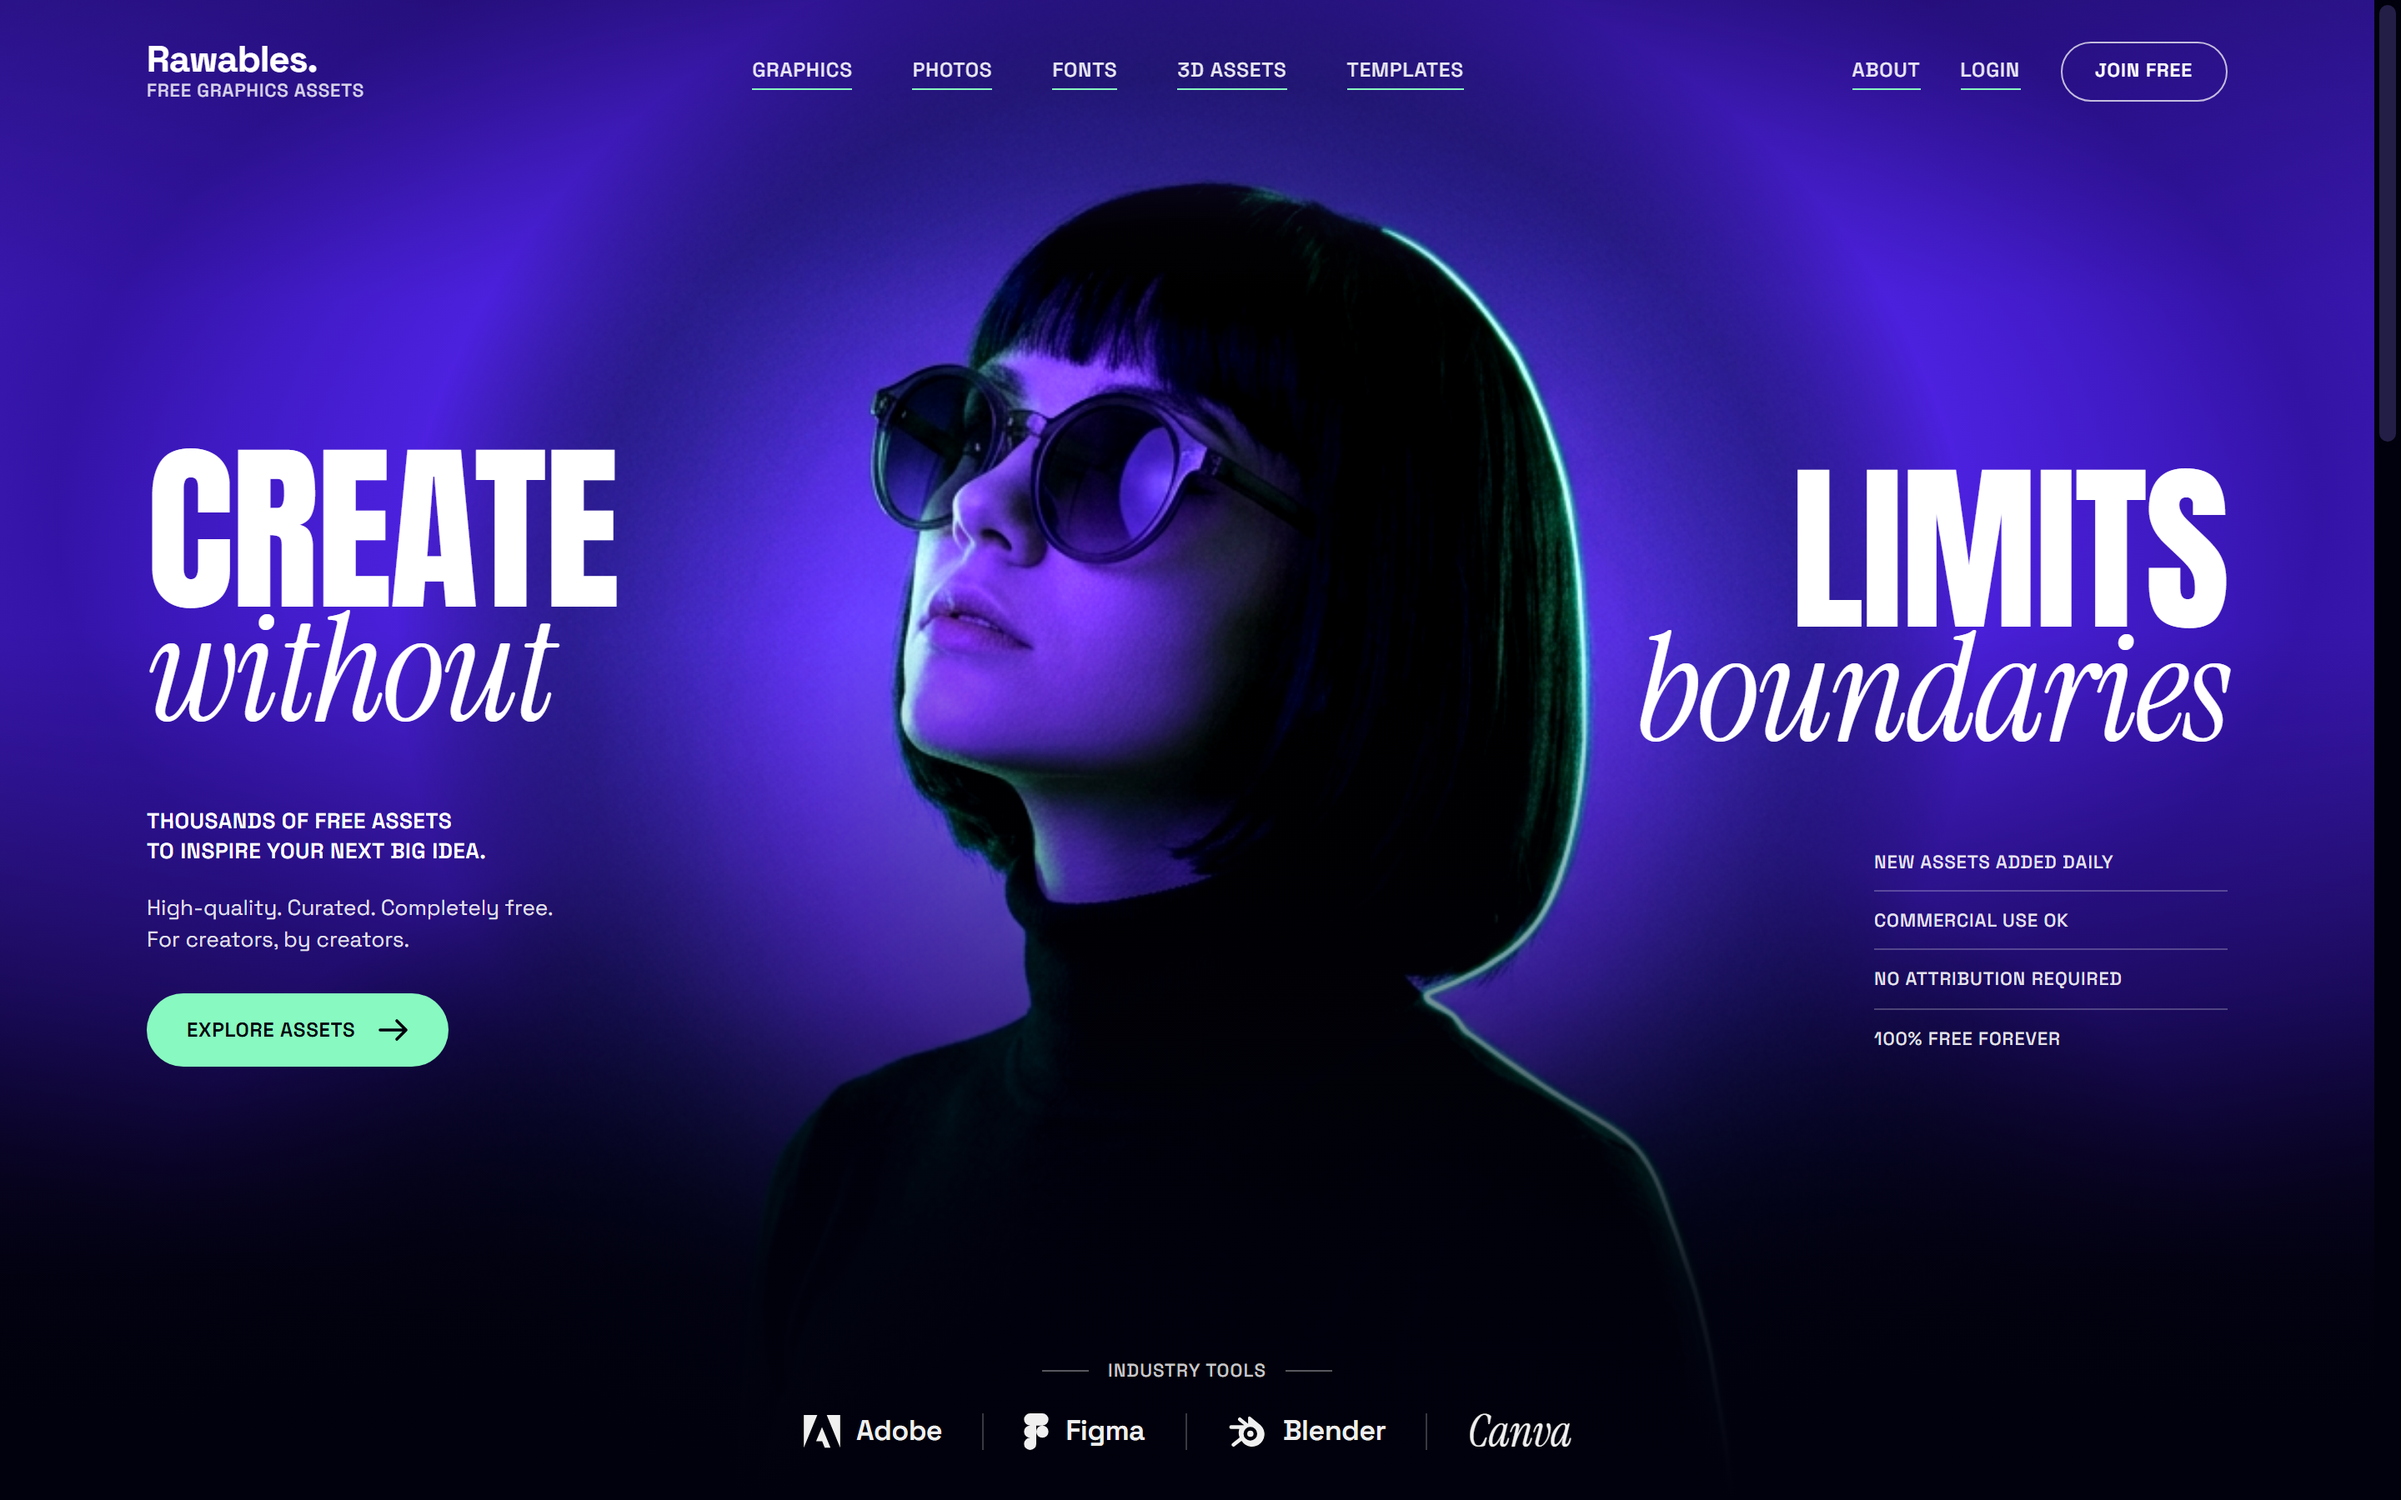
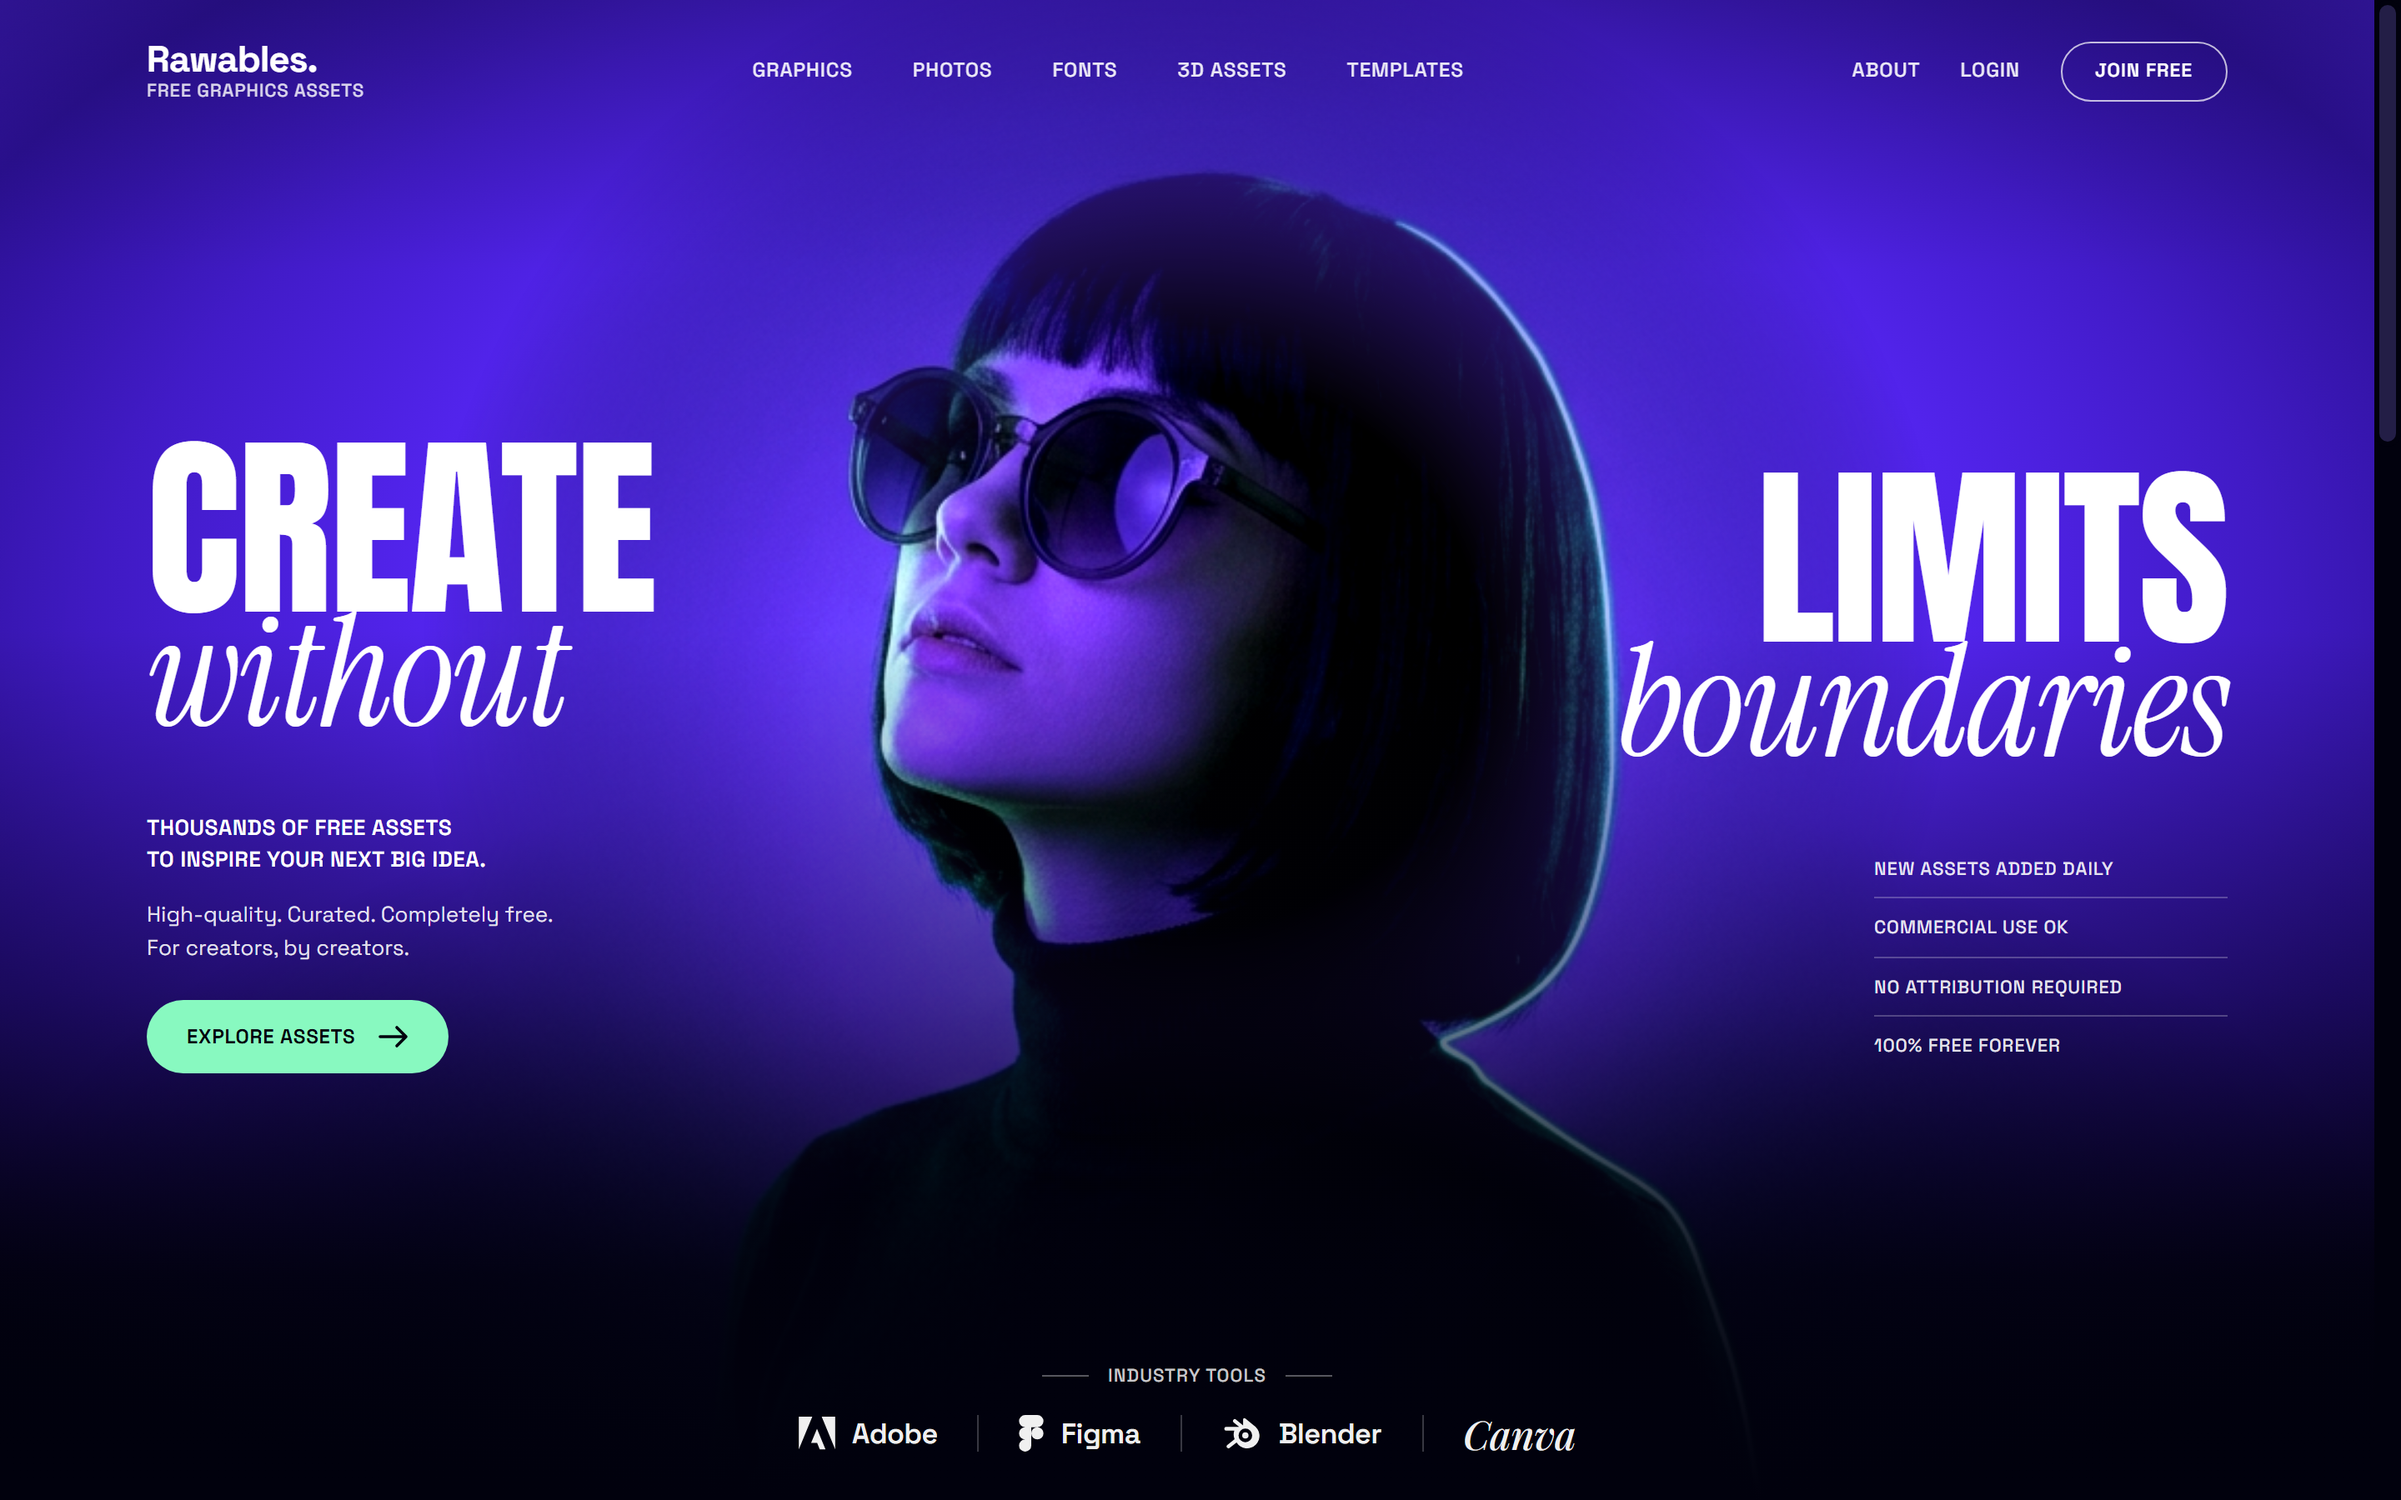
style(graphicassets_onyxblack+electricindigo+tropicalmint): refine portrait feather mask, mobile tool grid, and screenshots

diff --git a/graphicassets_onyxblack+electricindigo+tropicalmint/styles.css b/graphicassets_onyxblack+electricindigo+tropicalmint/styles.css
@@ -99,36 +99,38 @@ dd {
   outline-offset: 3px;
 }
 
-/* Custom Scrollbar */
-::-webkit-scrollbar {
-  width: 16px;
-}
+/* Custom Scrollbar (desktop viewports only) */
+@media (min-width: 901px) {
+  ::-webkit-scrollbar {
+    width: 16px;
+  }
 
-::-webkit-scrollbar-track {
-  background: var(--void);
-}
+  ::-webkit-scrollbar-track {
+    background: var(--void);
+  }
 
-::-webkit-scrollbar-thumb {
-  background: #231E46;
-  border: 3px solid var(--void);
-  border-radius: 999px;
-}
+  ::-webkit-scrollbar-thumb {
+    background: #231E46;
+    border: 3px solid var(--void);
+    border-radius: 999px;
+  }
 
-::-webkit-scrollbar-thumb:hover {
-  background: var(--indigo);
-}
+  ::-webkit-scrollbar-thumb:hover {
+    background: var(--indigo);
+  }
 
-::-webkit-scrollbar-thumb:active {
-  background: var(--mint);
-}
+  ::-webkit-scrollbar-thumb:active {
+    background: var(--mint);
+  }
 
-::-webkit-scrollbar-button {
-  display: none;
-}
+  ::-webkit-scrollbar-button {
+    display: none;
+  }
 
-@supports not selector(::-webkit-scrollbar) {
-  html {
-    scrollbar-color: #2A2454 var(--void);
+  @supports not selector(::-webkit-scrollbar) {
+    html {
+      scrollbar-color: #2A2454 var(--void);
+    }
   }
 }
 
@@ -242,9 +244,8 @@ dd {
   bottom: 2px;
   height: 1px;
   background: var(--mint);
-  transform: scaleX(0);
-  transform-origin: left center;
-  transition: transform 220ms var(--ease);
+  opacity: 0;
+  transition: opacity 200ms var(--ease);
 }
 
 .nav-link:hover {
@@ -252,7 +253,7 @@ dd {
 }
 
 .nav-link:hover::after {
-  transform: scaleX(1);
+  opacity: 1;
 }
 
 .header-actions {
@@ -369,9 +370,7 @@ dd {
    =========================== */
 .hero {
   position: relative;
-  min-height: 100dvh;
-  height: 100dvh;
-  max-height: 1080px;
+  height: clamp(720px, 100dvh, 960px);
   overflow: hidden;
   background-color: var(--void);
   display: flex;
@@ -389,8 +388,8 @@ dd {
   position: absolute;
   inset: 0;
   background:
-    radial-gradient(ellipse 68% 64% at 50% 34%, #6D3EFF 0%, #5727F5 38%, #3514AD 70%, rgba(1, 1, 13, 0) 100%),
-    linear-gradient(180deg, #4B20E8 0%, #6331FB 32%, #2B108E 68%, #01010D 95%);
+    radial-gradient(ellipse 74% 68% at 50% 38%, #6331FB 0%, #5224EC 44%, #2F119F 78%, rgba(1, 1, 13, 0) 100%),
+    linear-gradient(180deg, #5426F0 0%, #5F2EFA 34%, #210B6E 70%, #01010D 96%);
 }
 
 .hero-portrait {
@@ -400,13 +399,15 @@ dd {
   height: 100%;
   object-fit: cover;
   object-position: 50% 20%;
+  transform: scale(1.07);
+  transform-origin: 50% 22%;
   -webkit-mask-image:
-    radial-gradient(ellipse 35% 50% at 50% 42%, #000 54%, rgba(0, 0, 0, 0.72) 74%, transparent 95%),
-    radial-gradient(ellipse 46% 36% at 50% 84%, #000 48%, rgba(0, 0, 0, 0.6) 72%, transparent 95%);
+    radial-gradient(ellipse 32% 48% at 50% 42%, #000 36%, rgba(0, 0, 0, 0.45) 66%, transparent 94%),
+    radial-gradient(ellipse 52% 40% at 50% 84%, #000 32%, rgba(0, 0, 0, 0.4) 64%, transparent 92%);
   -webkit-mask-composite: source-over;
   mask-image:
-    radial-gradient(ellipse 35% 50% at 50% 42%, #000 54%, rgba(0, 0, 0, 0.72) 74%, transparent 95%),
-    radial-gradient(ellipse 46% 36% at 50% 84%, #000 48%, rgba(0, 0, 0, 0.6) 72%, transparent 95%);
+    radial-gradient(ellipse 32% 48% at 50% 42%, #000 36%, rgba(0, 0, 0, 0.45) 66%, transparent 94%),
+    radial-gradient(ellipse 52% 40% at 50% 84%, #000 32%, rgba(0, 0, 0, 0.4) 64%, transparent 92%);
   mask-composite: add;
   filter: contrast(1.06) saturate(1.08);
 }
@@ -415,9 +416,9 @@ dd {
   position: absolute;
   inset: 0;
   background:
-    linear-gradient(180deg, rgba(16, 8, 56, 0.34) 0%, rgba(16, 8, 56, 0) 20%),
+    linear-gradient(180deg, rgba(16, 8, 56, 0.24) 0%, rgba(16, 8, 56, 0) 18%),
     linear-gradient(0deg, #01010D 0%, rgba(1, 1, 13, 0.90) 15%, rgba(1, 1, 13, 0.42) 34%, rgba(1, 1, 13, 0) 58%),
-    radial-gradient(ellipse 90% 90% at 50% 44%, transparent 48%, rgba(1, 1, 13, 0.36) 100%);
+    radial-gradient(ellipse 92% 92% at 50% 44%, transparent 50%, rgba(1, 1, 13, 0.28) 100%);
 }
 
 .hero-content {
@@ -438,8 +439,8 @@ dd {
   margin-bottom: auto;
   display: flex;
   flex-direction: column;
-  gap: clamp(20px, 3vh, 34px);
-  padding-top: 8px;
+  gap: clamp(18px, 2.5vh, 28px);
+  padding-top: 6px;
 }
 
 .hero-h1 {
@@ -463,14 +464,14 @@ dd {
 .h1-wing--right {
   align-items: flex-end;
   text-align: right;
-  margin-top: 12px;
+  margin-top: 18px;
 }
 
 .h1-condensed {
   font-family: var(--font-display);
-  font-size: clamp(4.4rem, 7.6vw, 7rem);
+  font-size: clamp(4.75rem, 8.2vw, 7.5rem);
   font-weight: 400;
-  line-height: 0.88;
+  line-height: 0.86;
   letter-spacing: -0.01em;
   text-transform: uppercase;
   color: var(--paper);
@@ -480,11 +481,11 @@ dd {
   font-family: var(--font-serif);
   font-style: italic;
   font-weight: 400;
-  font-size: clamp(3.6rem, 6.2vw, 5.6rem);
+  font-size: clamp(3.75rem, 6.4vw, 5.8rem);
   line-height: 0.94;
   letter-spacing: -0.015em;
   color: var(--paper);
-  margin-top: -0.06em;
+  margin-top: -0.08em;
 }
 
 .hero-lower {
@@ -635,10 +636,10 @@ dd {
 }
 
 .tool-name--script {
-  font-family: var(--font-serif);
+  font-family: 'Playfair Display', var(--font-serif);
   font-style: italic;
-  font-weight: 400;
-  font-size: 27px;
+  font-weight: 500;
+  font-size: 24px;
   letter-spacing: -0.01em;
 }
 
@@ -675,7 +676,7 @@ dd {
 }
 
 .section-eyebrow--on-indigo {
-  color: var(--mint);
+  color: rgba(255, 255, 255, 0.90);
 }
 
 .section-heading {
@@ -1243,31 +1244,33 @@ dd {
   .hero {
     height: auto;
     min-height: 100dvh;
-    max-height: none;
   }
 
   .hero-portrait {
+    top: 28px;
+    height: 316px;
     object-position: 50% 20%;
+    transform: none;
     -webkit-mask-image:
-      radial-gradient(ellipse 68% 42% at 50% 28%, #000 50%, rgba(0, 0, 0, 0.5) 76%, transparent 96%);
+      radial-gradient(ellipse 72% 72% at 50% 42%, #000 44%, rgba(0, 0, 0, 0.45) 74%, transparent 96%);
     mask-image:
-      radial-gradient(ellipse 68% 42% at 50% 28%, #000 50%, rgba(0, 0, 0, 0.5) 76%, transparent 96%);
+      radial-gradient(ellipse 72% 72% at 50% 42%, #000 44%, rgba(0, 0, 0, 0.45) 74%, transparent 96%);
   }
 
   .hero-vignette {
     background:
-      linear-gradient(180deg, rgba(16, 8, 56, 0.32) 0%, rgba(16, 8, 56, 0) 16%),
-      linear-gradient(0deg, #01010D 0%, rgba(1, 1, 13, 0.94) 44%, rgba(1, 1, 13, 0.58) 64%, rgba(1, 1, 13, 0.14) 84%);
+      linear-gradient(180deg, rgba(16, 8, 56, 0.28) 0%, rgba(16, 8, 56, 0) 14%),
+      linear-gradient(0deg, #01010D 0%, #01010D 56%, rgba(1, 1, 13, 0.65) 68%, rgba(1, 1, 13, 0.08) 84%);
   }
 
   .hero-content {
-    padding: 104px var(--gutter) 32px;
-    gap: 28px;
+    padding: 80px var(--gutter) 24px;
+    gap: 20px;
   }
 
   .hero-stage {
-    gap: 24px;
-    padding-top: 136px;
+    gap: 16px;
+    padding-top: 196px;
   }
 
   .hero-h1 {
@@ -1284,16 +1287,16 @@ dd {
   }
 
   .h1-condensed {
-    font-size: clamp(2.8rem, 12.5vw, 4.2rem);
+    font-size: clamp(2.6rem, 12vw, 4rem);
   }
 
   .h1-italic {
-    font-size: clamp(2.2rem, 10vw, 3.2rem);
+    font-size: clamp(2.1rem, 9.5vw, 3rem);
   }
 
   .hero-lower {
     grid-template-columns: minmax(0, 1fr);
-    gap: 24px;
+    gap: 16px;
   }
 
   .hero-center-spacer {
@@ -1307,6 +1310,10 @@ dd {
   .badge-list {
     width: 100%;
     max-width: 320px;
+  }
+
+  .badge-item {
+    padding-block: 7px;
   }
 
   .tools-row {
@@ -1324,6 +1331,13 @@ dd {
 }
 
 @media (max-width: 560px) {
+  .tools-row {
+    display: grid;
+    grid-template-columns: repeat(2, auto);
+    justify-content: center;
+    gap: 14px 32px;
+  }
+
   .vault-grid {
     grid-template-columns: minmax(0, 1fr);
   }
@@ -1360,6 +1374,5 @@ dd {
   .btn-kit,
   .site-header {
     transition: none;
-    transform: none;
   }
 }
